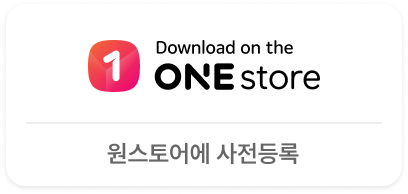
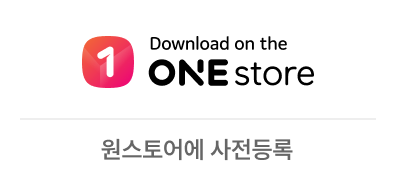
[feat] 배경색 적용 앱스토어/플레이스토어/원스토어 이미지 수정 shadow 적용 이미지 최적화 제외

Changed region(s): [[0.3333, 0.1923, 0.8182, 0.4945], [0.2424, 0.7143, 0.7576, 0.8791], [0.1818, 0.1923, 0.3333, 0.4945]]

diff --git a/apps/admin/app/page.tsx b/apps/admin/app/page.tsx
@@ -502,6 +502,9 @@ export default function Page() {
                 <Image
                   src="/advance_reservation_apple_mobile.png"
                   alt="앱스토어 사전예약"
+                  className="rounded-[10px] shadow-[0px_1px_3px_0px_rgba(0,0,0,0.10)]"
+                  quality={100}
+                  unoptimized
                   width={73}
                   height={118}
                   onClick={() => alert("액션 머임?")}
@@ -509,6 +512,9 @@ export default function Page() {
                 <Image
                   src="/advance_reservation_google_mobile.png"
                   alt="구글 플레이스토어 사전예약"
+                  className="rounded-[10px] shadow-[0px_1px_3px_0px_rgba(0,0,0,0.10)]"
+                  quality={100}
+                  unoptimized
                   width={73}
                   height={118}
                   onClick={() => alert("액션 머임?")}
@@ -516,6 +522,9 @@ export default function Page() {
                 <Image
                   src="/advance_reservation_onestore_mobile.png"
                   alt="원스토어 사전예약"
+                  className="rounded-[10px] shadow-[0px_1px_3px_0px_rgba(0,0,0,0.10)]"
+                  quality={100}
+                  unoptimized
                   width={73}
                   height={118}
                   onClick={() => alert("액션 머임?")}
@@ -633,7 +642,7 @@ export default function Page() {
 
             <form
               onSubmit={handleSubmit}
-              className="h-[600px] w-[720px]  rounded-r-[30px] bg-white px-12 pt-[74px]"
+              className="h-[600px] w-[720px]  rounded-r-[30px] bg-[#F3F3F3] px-12 pt-[74px]"
             >
               <div className="flex gap-x-[30px] pl-[13px]">
                 <label className="flex cursor-pointer items-center gap-x-1.5">
@@ -853,6 +862,9 @@ export default function Page() {
                 <Image
                   src="/advance_reservation_apple.png"
                   alt="앱스토어 사전예약"
+                  className="rounded-[10px] shadow-[0px_1px_3px_0px_rgba(0,0,0,0.10)]"
+                  quality={100}
+                  unoptimized
                   width={198}
                   height={91}
                   onClick={() => alert("액션 머임?")}
@@ -860,6 +872,9 @@ export default function Page() {
                 <Image
                   src="/advance_reservation_google.png"
                   alt="구글 플레이스토어 사전예약"
+                  className="rounded-[10px] shadow-[0px_1px_3px_0px_rgba(0,0,0,0.10)]"
+                  quality={100}
+                  unoptimized
                   width={198}
                   height={91}
                   onClick={() => alert("액션 머임?")}
@@ -867,6 +882,9 @@ export default function Page() {
                 <Image
                   src="/advance_reservation_onestore.png"
                   alt="원스토어 사전예약"
+                  className="rounded-[10px] shadow-[0px_1px_3px_0px_rgba(0,0,0,0.10)]"
+                  quality={100}
+                  unoptimized
                   width={198}
                   height={91}
                   onClick={() => alert("액션 머임?")}
